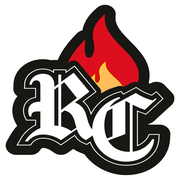
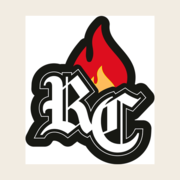
SEO: el sitio publico se puede indexar, con datos estructurados y llms.txt
El sitio heredaba el noindex del layout de la consola, asi que nadie lo podia encontrar: ni Google ni un
modelo. Esto separa las dos caras de la app.

Para buscadores y para modelos de lenguaje:
- /sitio sale como index,follow con canonical propio y max-image-preview large; la consola y el portal
  siguen en noindex (tienen datos de salud)
- datos estructurados JSON-LD: NGO (nombre legal, lema, sede San Telmo CABA, areaServed AR, horario,
  WhatsApp e Instagram), WebSite y FAQPage con las cinco preguntas copiadas del texto visible
- llms.txt en /llms.txt: que es el club, que no es, como asociarse, membresias de 10 g, envios, marco
  legal, contacto y notas para que un asistente no lo describa como dispensario ni invente precios
- /robots.txt con las rutas privadas cerradas y los bots de IA (GPTBot, ClaudeBot, PerplexityBot,
  Google-Extended, Applebot-Extended, CCBot) declarados uno por uno
- /sitemap.xml con las dos unicas paginas publicas, y manifest.webmanifest con los colores del club
- el proxy mandaba robots.txt, sitemap.xml, llms.txt y el manifest al login: quedan publicos (un 307
  aca es invisible para Google y para cualquier crawler)
- iconos propios generados del monograma del club (favicon 16/32/48, 192, 512 y apple-touch 180) en
  lugar del favicon generico y del emblema en webp, que Safari no muestra en la pestana
- la bajada del hero repite el lema cuando la presentacion arranca con el: ahora, si es corta, va una
[…]

diff --git a/src/app/sitio/page.tsx b/src/app/sitio/page.tsx
@@ -14,13 +14,39 @@ import { BrandMark } from "@/components/brand-mark";
 import { SiteJoinFloat } from "@/components/site-join-float";
 import "./sitio.css";
 
+const SITE_URL = process.env.APP_BASE_URL?.startsWith("https://republicacannabis") ? process.env.APP_BASE_URL : "https://republicacannabis.com.ar";
+
+/**
+ * El sitio público es la única cara indexable de la app: la consola y el portal del socio quedan fuera.
+ * La descripción está escrita para que sirva igual a un buscador y a un modelo: qué es, dónde, bajo qué
+ * marco legal y cómo se accede, en una frase completa.
+ */
 export async function generateMetadata(): Promise<Metadata> {
   const view = await getBrandView();
-  const description = view.brand.lema || "Asociación civil de cultivo solidario bajo la Ley 27.350 y el REPROCANN.";
+  const canonical = `${SITE_URL}/sitio`;
+  const description =
+    "Club de cultivo solidario de República Cannabis (Asociación Civil inscripta en el REPROCANN, Ley 27.350) en San Telmo, CABA: acompañamiento médico, legajo de socio, retiro en sede y envíos a todo el país. No se vende cannabis: los socios cubren los costos de producción.";
+  const titulo = `${view.nombre} · club de cultivo solidario con REPROCANN en San Telmo, CABA`;
+  const images = view.img.portada ? [view.img.portada] : ["/icon-512.png"];
   return {
-    title: { absolute: view.brand.lema ? `${view.nombre} · ${view.brand.lema}` : view.nombre },
+    title: { absolute: titulo },
     description,
-    openGraph: { title: view.nombre, description, images: view.img.portada ? [view.img.portada] : undefined },
+    alternates: { canonical },
+    robots: {
+      index: true,
+      follow: true,
+      googleBot: { index: true, follow: true, "max-image-preview": "large", "max-snippet": -1, "max-video-preview": -1 },
+    },
+    openGraph: {
+      type: "website",
+      url: canonical,
+      siteName: view.nombre,
+      locale: "es_AR",
+      title: titulo,
+      description,
+      images,
+    },
+    twitter: { card: "summary_large_image", title: titulo, description, images },
   };
 }
 
@@ -56,11 +82,102 @@ export default async function SitioPage() {
     : null;
   const ig = brand.contacto.instagram ? `https://www.instagram.com/${brand.contacto.instagram}/` : null;
   const parrafos = brand.presentacion.split(/\n{2,}|\r\n\r\n/).map((p) => p.trim()).filter(Boolean);
-  const lead = "Somos una asociación civil sin fines de lucro que cultiva cannabis para sus socios con indicación médica, bajo la Ley 27.350 y el REPROCANN.";
+  // La primera frase de la presentación suele ser el lema: repetirlo debajo del H1 no le dice nada a un
+  // buscador ni a alguien que entra por primera vez. Si es corta, va esta bajada descriptiva.
+  const lead =
+    "Somos una asociación civil sin fines de lucro que cultiva cannabis para sus socios con indicación médica, bajo la Ley 27.350 y el REPROCANN. Retiro en la sede de San Telmo, CABA, y envíos a todo el país.";
   const banda = [view.nombre, brand.lema, "Cultivo solidario", "Sin fines de lucro", "Ley 27.350"].filter(Boolean);
   const mark = { logo: view.img.logo, sigla: view.sigla, placa: brand.logoPlaca };
 
+  /**
+   * Datos estructurados: qué es la organización, dónde está, cómo se contacta y las respuestas de la FAQ.
+   * Es lo que un buscador muestra como ficha y lo que un modelo cita cuando le preguntan por un club de
+   * cultivo en Argentina. La FAQ va copiada del texto visible: si difiere, no sirve.
+   */
+  const faq = [
+    {
+      q: "¿Puedo conseguir cannabis sin ser socio?",
+      a: "No. El club no vende ni entrega a terceros: solo a socios activos, con indicación médica y el REPROCANN vinculado.",
+    },
+    {
+      q: "¿Qué necesito para asociarme?",
+      a: `Tu DNI, ser mayor de ${club.edadMinima} años y contar con el REPROCANN (o iniciarlo con orientación del club). Firmás la solicitud de ingreso y el consentimiento informado.`,
+    },
+    {
+      q: "¿Cuánto puedo retirar?",
+      a: "Lo que indica tu REPROCANN, dentro de los topes que fija la comisión. El sistema del club controla cada entrega y no permite superarlos.",
+    },
+    {
+      q: "¿Cómo veo mis retiros y turnos?",
+      a: "Desde el portal del socio: tu carnet, lo que te queda en el mes, tus retiros y la reserva de turnos. Entrás con el usuario que te da el club.",
+    },
+    {
+      q: "¿Mis datos de salud son privados?",
+      a: "Sí. Se usan solo para la gestión del club, con tu consentimiento, y se conservan de forma segura. Podés pedir acceso o rectificación cuando quieras.",
+    },
+  ];
+  const horarioDeclarado = /12.*20/.test(brand.contacto.horario ?? "") ? "Mo-Sa 12:00-20:00" : undefined;
+  const jsonLd = {
+    "@context": "https://schema.org",
+    "@graph": [
+      {
+        "@type": "NGO",
+        "@id": `${SITE_URL}/sitio#organizacion`,
+        name: view.nombre,
+        alternateName: ["República Cannabis", "Republica Cannabis ONG"],
+        url: `${SITE_URL}/sitio`,
+        logo: `${SITE_URL}/icon-512.png`,
+        image: `${SITE_URL}/icon-512.png`,
+        slogan: brand.lema || undefined,
+        description: parrafos[0] || lead,
+        foundingLocation: { "@type": "Place", name: brand.contacto.zona || "San Telmo, Ciudad Autónoma de Buenos Aires" },
+        address: {
+          "@type": "PostalAddress",
+          addressLocality: "San Telmo",
+          addressRegion: "Ciudad Autónoma de Buenos Aires",
+          addressCountry: "AR",
+        },
+        areaServed: { "@type": "Country", name: "Argentina" },
+        knowsAbout: ["REPROCANN", "cannabis medicinal", "club de cultivo", "Ley 27.350", "cultivo solidario"],
+        ...(horarioDeclarado ? { openingHours: horarioDeclarado } : {}),
+        sameAs: ig ? [ig] : undefined,
+        contactPoint: brand.contacto.whatsapp
+          ? [
+              {
+                "@type": "ContactPoint",
+                contactType: "atención al socio",
+                telephone: `+${brand.contacto.whatsapp}`,
+                areaServed: "AR",
+                availableLanguage: ["es-AR"],
+              },
+            ]
+          : undefined,
+      },
+      {
+        "@type": "WebSite",
+        "@id": `${SITE_URL}/sitio#sitio`,
+        url: `${SITE_URL}/sitio`,
+        name: view.nombre,
+        inLanguage: "es-AR",
+        publisher: { "@id": `${SITE_URL}/sitio#organizacion` },
+      },
+      {
+        "@type": "FAQPage",
+        "@id": `${SITE_URL}/sitio#preguntas`,
+        inLanguage: "es-AR",
+        mainEntity: faq.map((f) => ({
+          "@type": "Question",
+          name: f.q,
+          acceptedAnswer: { "@type": "Answer", text: f.a },
+        })),
+      },
+    ],
+  };
+
   return (
+    <>
+      <script type="application/ld+json" dangerouslySetInnerHTML={{ __html: JSON.stringify(jsonLd) }} />
+      <link rel="alternate" type="text/markdown" href="/llms.txt" title="Resumen del club para modelos de lenguaje" />
     <div className="sitio">
       {!brand.sitio.publico ? (
         <div className="s-preview" role="status">
@@ -94,7 +211,7 @@ export default async function SitioPage() {
                 <small>Asociación civil · cultivo solidario</small>
                 {brand.lema || view.nombre}
               </h1>
-              <p className="s-lead">{parrafos[0] && parrafos[0].length <= 260 ? parrafos[0] : lead}</p>
+              <p className="s-lead">{parrafos[0] && parrafos[0].length >= 120 && parrafos[0].length <= 320 ? parrafos[0] : lead}</p>
               <div className="s-actions">
                 <Link className="s-btn s-btn-firma" href="/login?alta=1"><UserPlus aria-hidden style={{ width: 17, height: 17 }} />Crear cuenta</Link>
                 <Link className="s-btn s-btn-ghost" href="/login">Ya soy socio</Link>
@@ -313,5 +430,6 @@ export default async function SitioPage() {
       <SiteJoinFloat />
       {wa ? <a className="s-wa-float" href={wa} target="_blank" rel="noreferrer" aria-label="Escribir por WhatsApp"><WhatsappIcon /></a> : null}
     </div>
+    </>
   );
 }

diff --git a/src/app/robots.ts b/src/app/robots.ts
@@ -1,0 +1,61 @@
+import type { MetadataRoute } from "next";
+
+const SITE = "https://republicacannabis.com.ar";
+
+/**
+ * La consola del club y el portal del socio no se indexan (tienen datos de salud de personas).
+ * Sólo el sitio público y la política de privacidad son rastreables, y también para los bots de IA:
+ * que un modelo pueda leer y citar la información institucional es parte del objetivo.
+ */
+const PRIVADAS = [
+  "/api/",
+  "/portal",
+  "/login",
+  "/solicitud",
+  "/cuenta",
+  "/socios",
+  "/stock",
+  "/dispensario",
+  "/turnos",
+  "/calendario",
+  "/avisos",
+  "/traslados",
+  "/aportes",
+  "/control",
+  "/reportes",
+  "/inspeccion",
+  "/cierre",
+  "/cierre-mensual",
+  "/informe-semestral",
+  "/configuracion",
+];
+
+const PUBLICAS = ["/sitio", "/privacidad", "/llms.txt"];
+
+export default function robots(): MetadataRoute.Robots {
+  return {
+    rules: [
+      { userAgent: "*", allow: PUBLICAS, disallow: PRIVADAS },
+      // Bots de respuesta (ChatGPT, Claude, Perplexity, Gemini, Apple): mismas reglas, explícitas.
+      {
+        userAgent: [
+          "GPTBot",
+          "OAI-SearchBot",
+          "ChatGPT-User",
+          "ClaudeBot",
+          "Claude-Web",
+          "anthropic-ai",
+          "PerplexityBot",
+          "Google-Extended",
+          "Applebot-Extended",
+          "CCBot",
+          "Meta-ExternalAgent",
+        ],
+        allow: PUBLICAS,
+        disallow: PRIVADAS,
+      },
+    ],
+    sitemap: `${SITE}/sitemap.xml`,
+    host: SITE,
+  };
+}

diff --git a/src/proxy.ts b/src/proxy.ts
@@ -14,7 +14,9 @@ const COOKIE = "cc_session";
 // `/solicitud` y `/api/solicitud*` validan la cookie de onboarding por su cuenta (no usan `cc_session`).
 // Los dos crons de Vercel llegan sin sesión y se autentican con `Authorization: Bearer $CRON_SECRET`
 // dentro de la propia ruta; acá sólo se los deja llegar.
-const PUBLIC = ["/login", "/api/auth/login", "/api/auth/google", "/api/auth/logout", "/api/health", "/lote", "/sitio", "/privacidad", "/solicitud", "/api/solicitud", "/api/marca", "/api/variedades", "/api/mantenimiento/retencion", "/api/club/cotizacion", "/api/avisos/vencimientos"];
+const PUBLIC = ["/login", "/api/auth/login", "/api/auth/google", "/api/auth/logout", "/api/health", "/lote", "/sitio", "/privacidad", "/solicitud", "/api/solicitud", "/api/marca", "/api/variedades", "/api/mantenimiento/retencion", "/api/club/cotizacion", "/api/avisos/vencimientos",
+  // Descubrimiento y metadatos: son públicos por definición, si el proxy los manda al login los buscadores no los ven.
+  "/robots.txt", "/sitemap.xml", "/llms.txt", "/manifest.webmanifest"];
 // Páginas que se dibujan sin el shell de la app aunque haya sesión (el layout lee este header).
 const BARE = ["/sitio", "/privacidad", "/solicitud"];
 const matches = (pathname: string, list: string[]) => list.some((p) => pathname === p || pathname.startsWith(`${p}/`));

diff --git a/src/app/layout.tsx b/src/app/layout.tsx
@@ -15,12 +15,20 @@ import { addDaysKey, dayKeyOf, slotInstant } from "@/lib/appointments";
 
 export async function generateMetadata(): Promise<Metadata> {
   const view = await getBrandView();
-  const icon = view.img.emblema ?? view.img.logo ?? "/icon-club.svg";
   return {
+    // Sin `metadataBase`, Next emite OG y canonical relativos y los buscadores los ignoran.
+    metadataBase: new URL(process.env.APP_BASE_URL ?? "https://republicacannabis.com.ar"),
     title: { default: `${view.nombre} · gestión del club`, template: `%s · ${view.nombre}` },
     description: "Padrón de socios, stock y registro de entregas para asociaciones de cultivo.",
+    // La consola del club no se indexa. El sitio público sí: lo habilita su propio `generateMetadata`.
     robots: { index: false, follow: false },
-    icons: { icon, apple: view.img.emblema ?? view.img.logo ?? undefined },
+    icons: {
+      icon: [
+        { url: "/icon-32.png", sizes: "32x32", type: "image/png" },
+        { url: "/icon-192.png", sizes: "192x192", type: "image/png" },
+      ],
+      apple: [{ url: "/apple-touch-icon.png", sizes: "180x180", type: "image/png" }],
+    },
   };
 }
 

diff --git a/src/app/manifest.ts b/src/app/manifest.ts
@@ -1,0 +1,22 @@
+import type { MetadataRoute } from "next";
+import { getBrandView } from "@/lib/brand-db";
+
+/** Manifest del sitio: nombre, colores del club e íconos generados del monograma. */
+export default async function manifest(): Promise<MetadataRoute.Manifest> {
+  const view = await getBrandView();
+  return {
+    name: view.nombre,
+    short_name: view.brand.sigla || "República",
+    description: view.brand.lema || "Club de cultivo solidario con REPROCANN.",
+    start_url: "/sitio",
+    display: "standalone",
+    background_color: view.brand.colores.claro,
+    theme_color: view.brand.colores.oscuro,
+    lang: "es-AR",
+    icons: [
+      { src: "/icon-192.png", sizes: "192x192", type: "image/png", purpose: "any" },
+      { src: "/icon-512.png", sizes: "512x512", type: "image/png", purpose: "any" },
+      { src: "/apple-touch-icon.png", sizes: "180x180", type: "image/png" },
+    ],
+  };
+}

diff --git a/src/app/privacidad/page.tsx b/src/app/privacidad/page.tsx
@@ -3,8 +3,12 @@ import { getBrandView } from "@/lib/brand-db";
 import { CONSENT_PURPOSES, CONSENT_TEXTS, CONSENT_VERSION } from "@/lib/privacy";
 
 export const metadata = {
-  title: "Privacidad",
-  description: "Qué datos trata el club, para qué, cuánto tiempo los conserva y cómo pedir acceso, corrección o baja.",
+  title: "Política de privacidad",
+  description:
+    "Qué datos personales y de salud trata República Cannabis, con qué finalidad, cuánto tiempo los conserva y cómo pedir acceso, corrección o baja. Ley 25.326.",
+  // La consola no se indexa; esta página sí, porque es la que respalda el tratamiento de datos.
+  robots: { index: true, follow: true },
+  alternates: { canonical: "https://republicacannabis.com.ar/privacidad" },
 };
 
 /**

diff --git a/src/app/sitemap.ts b/src/app/sitemap.ts
@@ -1,0 +1,12 @@
+import type { MetadataRoute } from "next";
+
+const SITE = "https://republicacannabis.com.ar";
+
+/** Lo indexable es poco y es a propósito: el sitio público y la política de privacidad. */
+export default function sitemap(): MetadataRoute.Sitemap {
+  const hoy = new Date();
+  return [
+    { url: `${SITE}/sitio`, lastModified: hoy, changeFrequency: "weekly", priority: 1 },
+    { url: `${SITE}/privacidad`, lastModified: hoy, changeFrequency: "yearly", priority: 0.3 },
+  ];
+}
